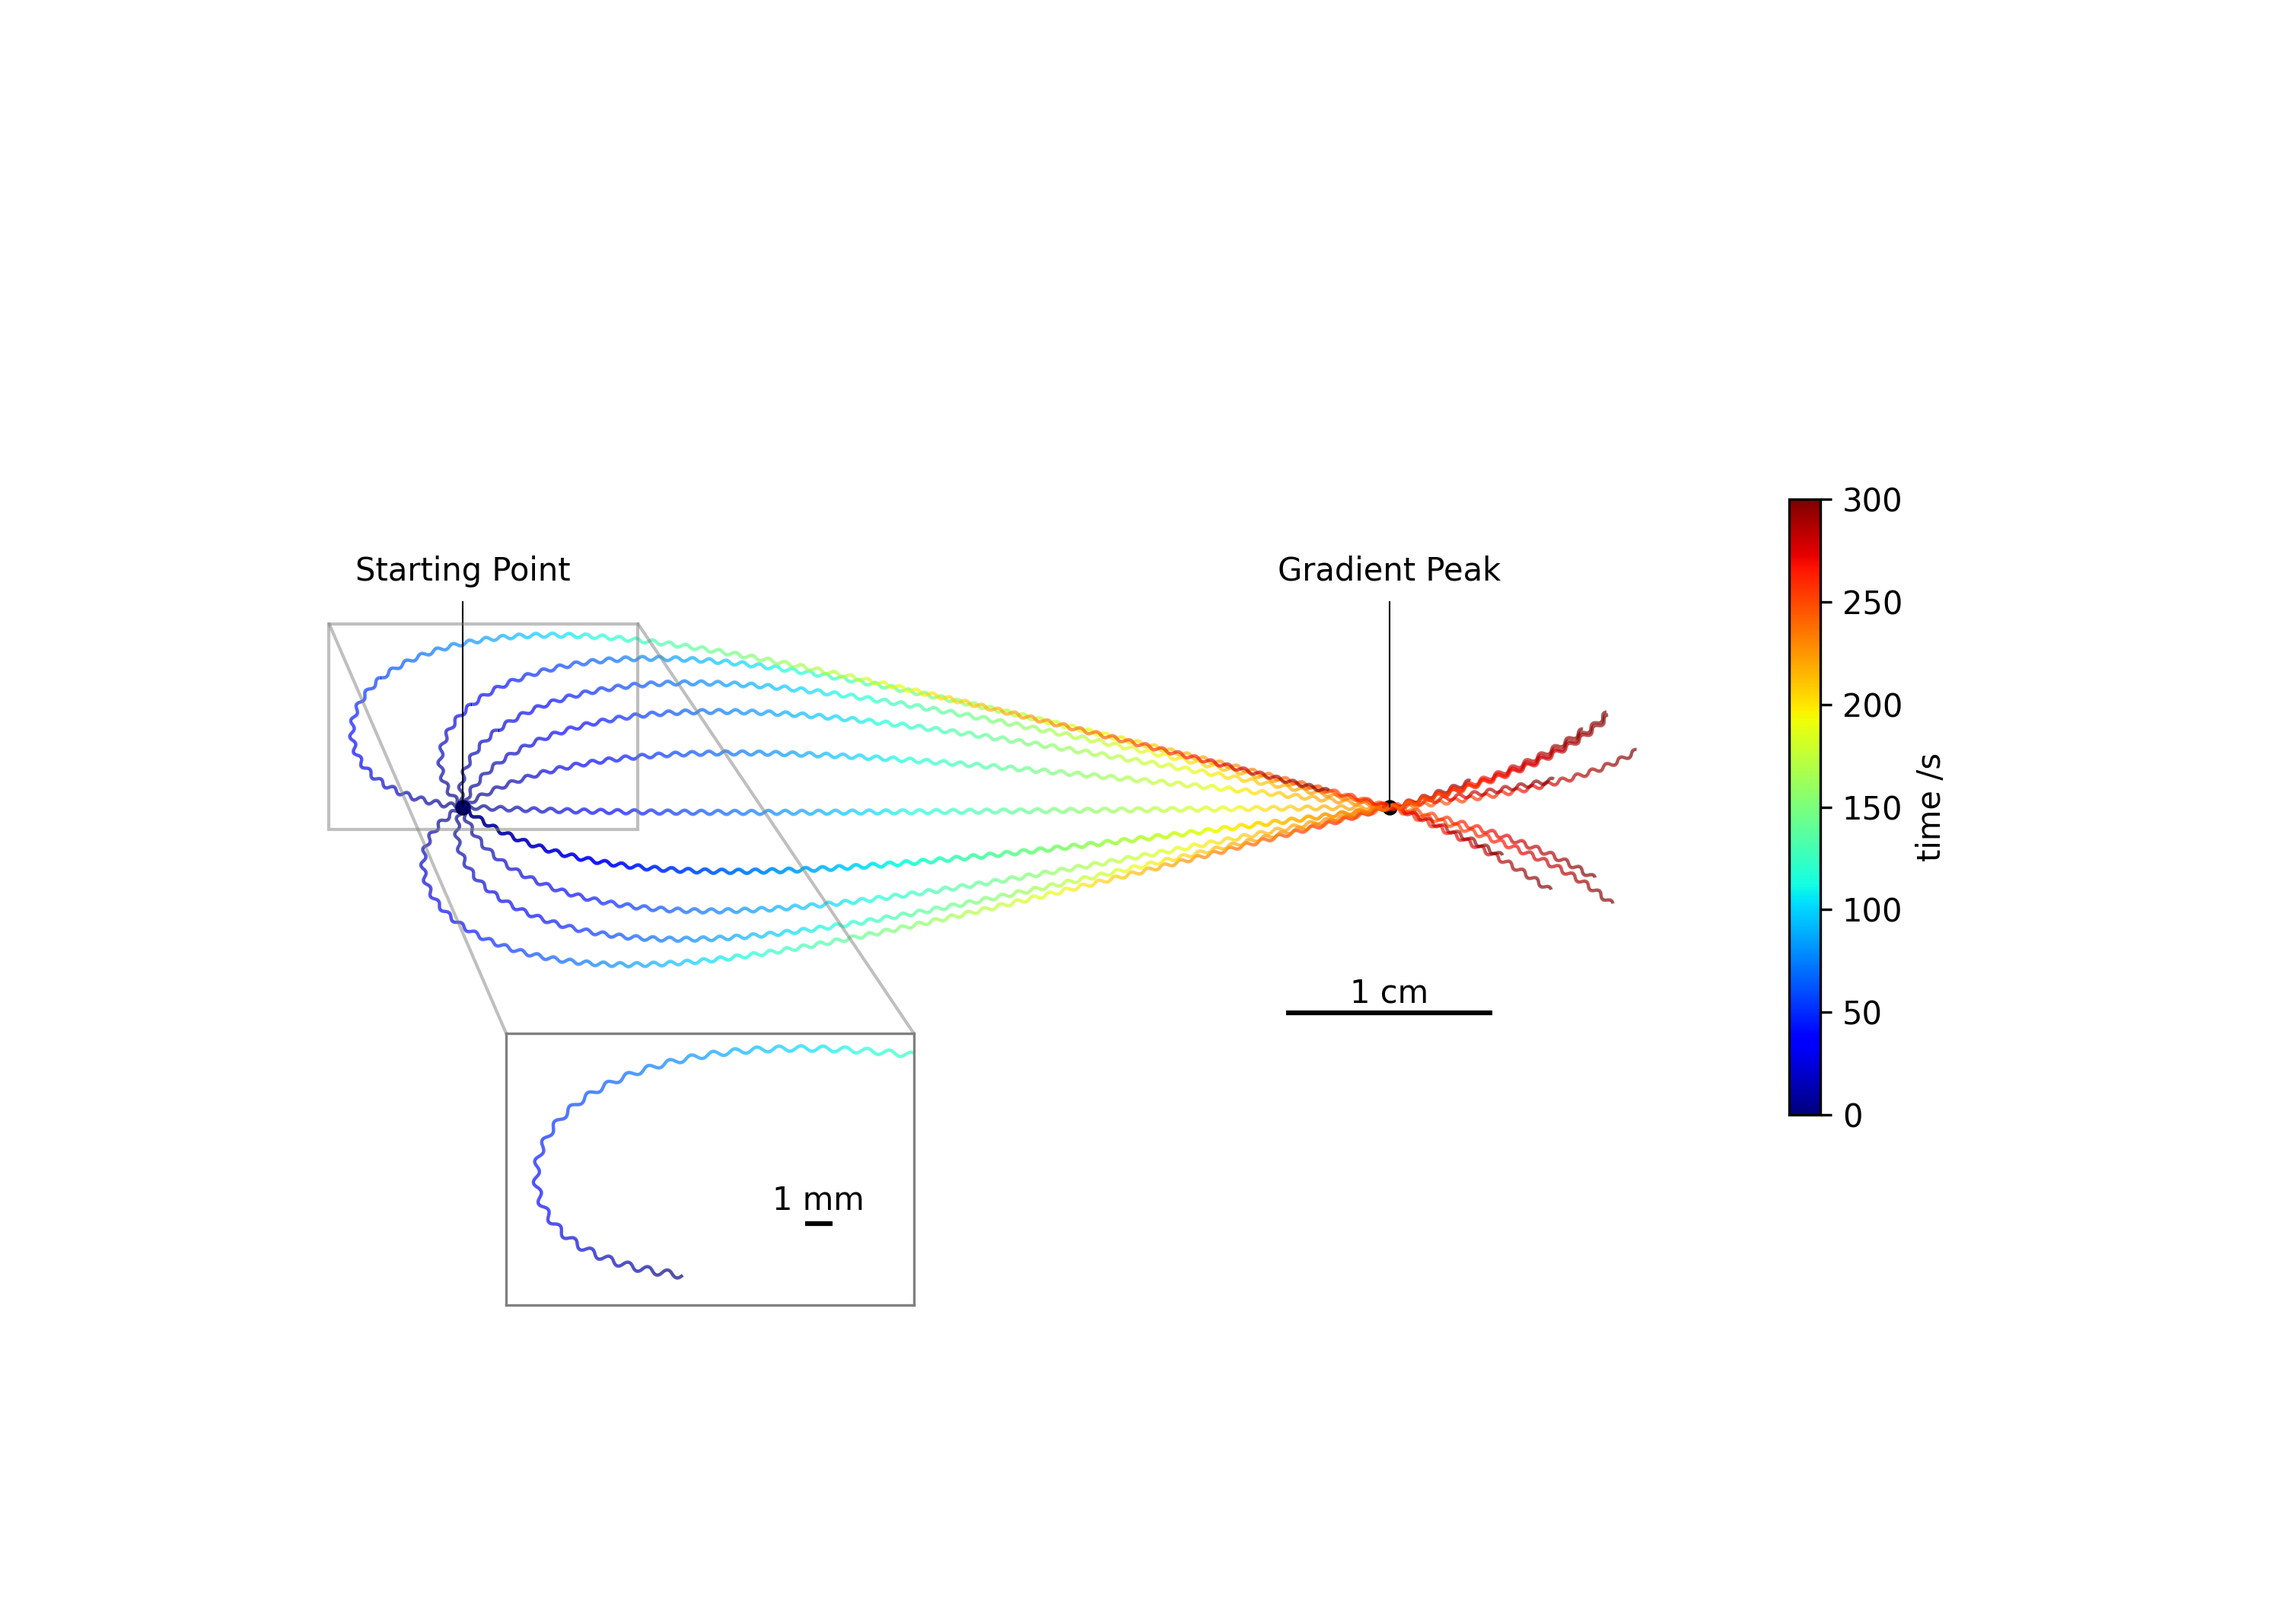
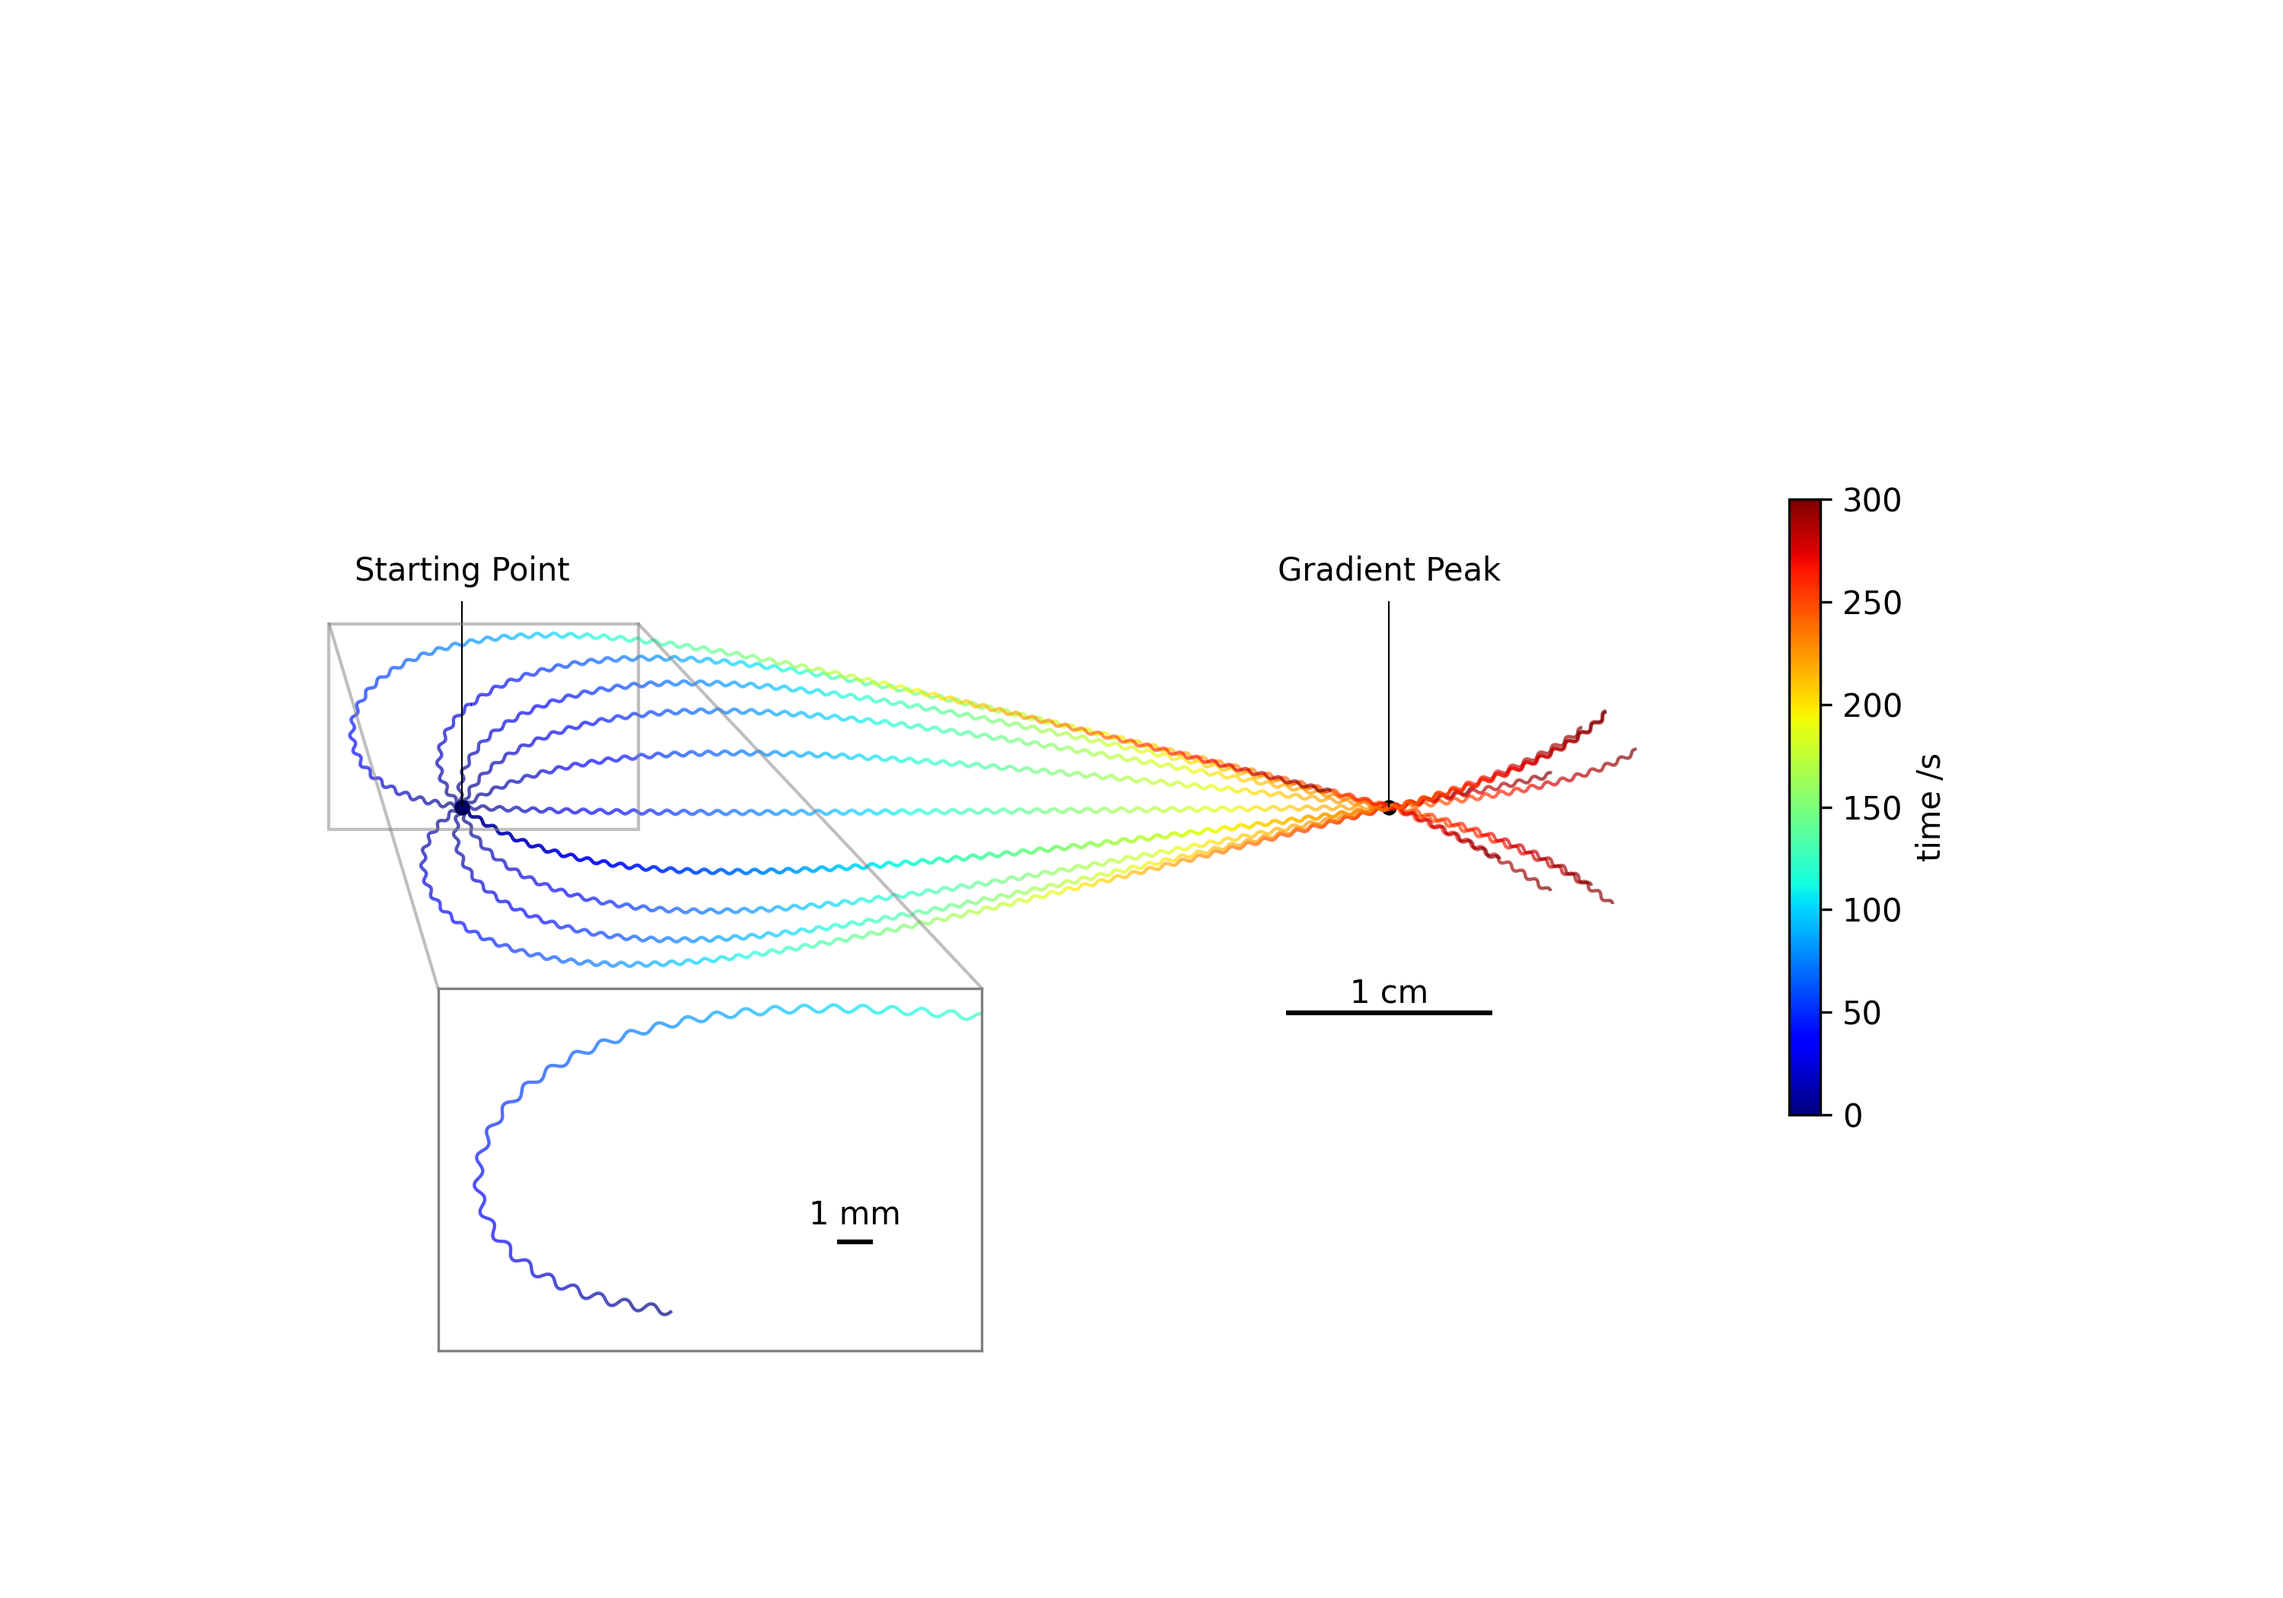
trajectory()を微調整

diff --git a/python/figure.py b/python/figure.py
@@ -109,7 +109,7 @@ def trajectory(gene, lines_number, out_file_path):
     plt.colorbar(line, ax=ax, label="time /s", shrink=0.5)
 
     # インセットプロット
-    axins = ax.inset_axes([0.0, -0.6, 0.6, 0.6])
+    axins = ax.inset_axes([-0.1, -0.7, 0.8, 0.8])
     axins.add_collection(lc_inset)
 
     axins.set_xlim(ins_x_min - 0.1, ins_x_min + 1.4)
